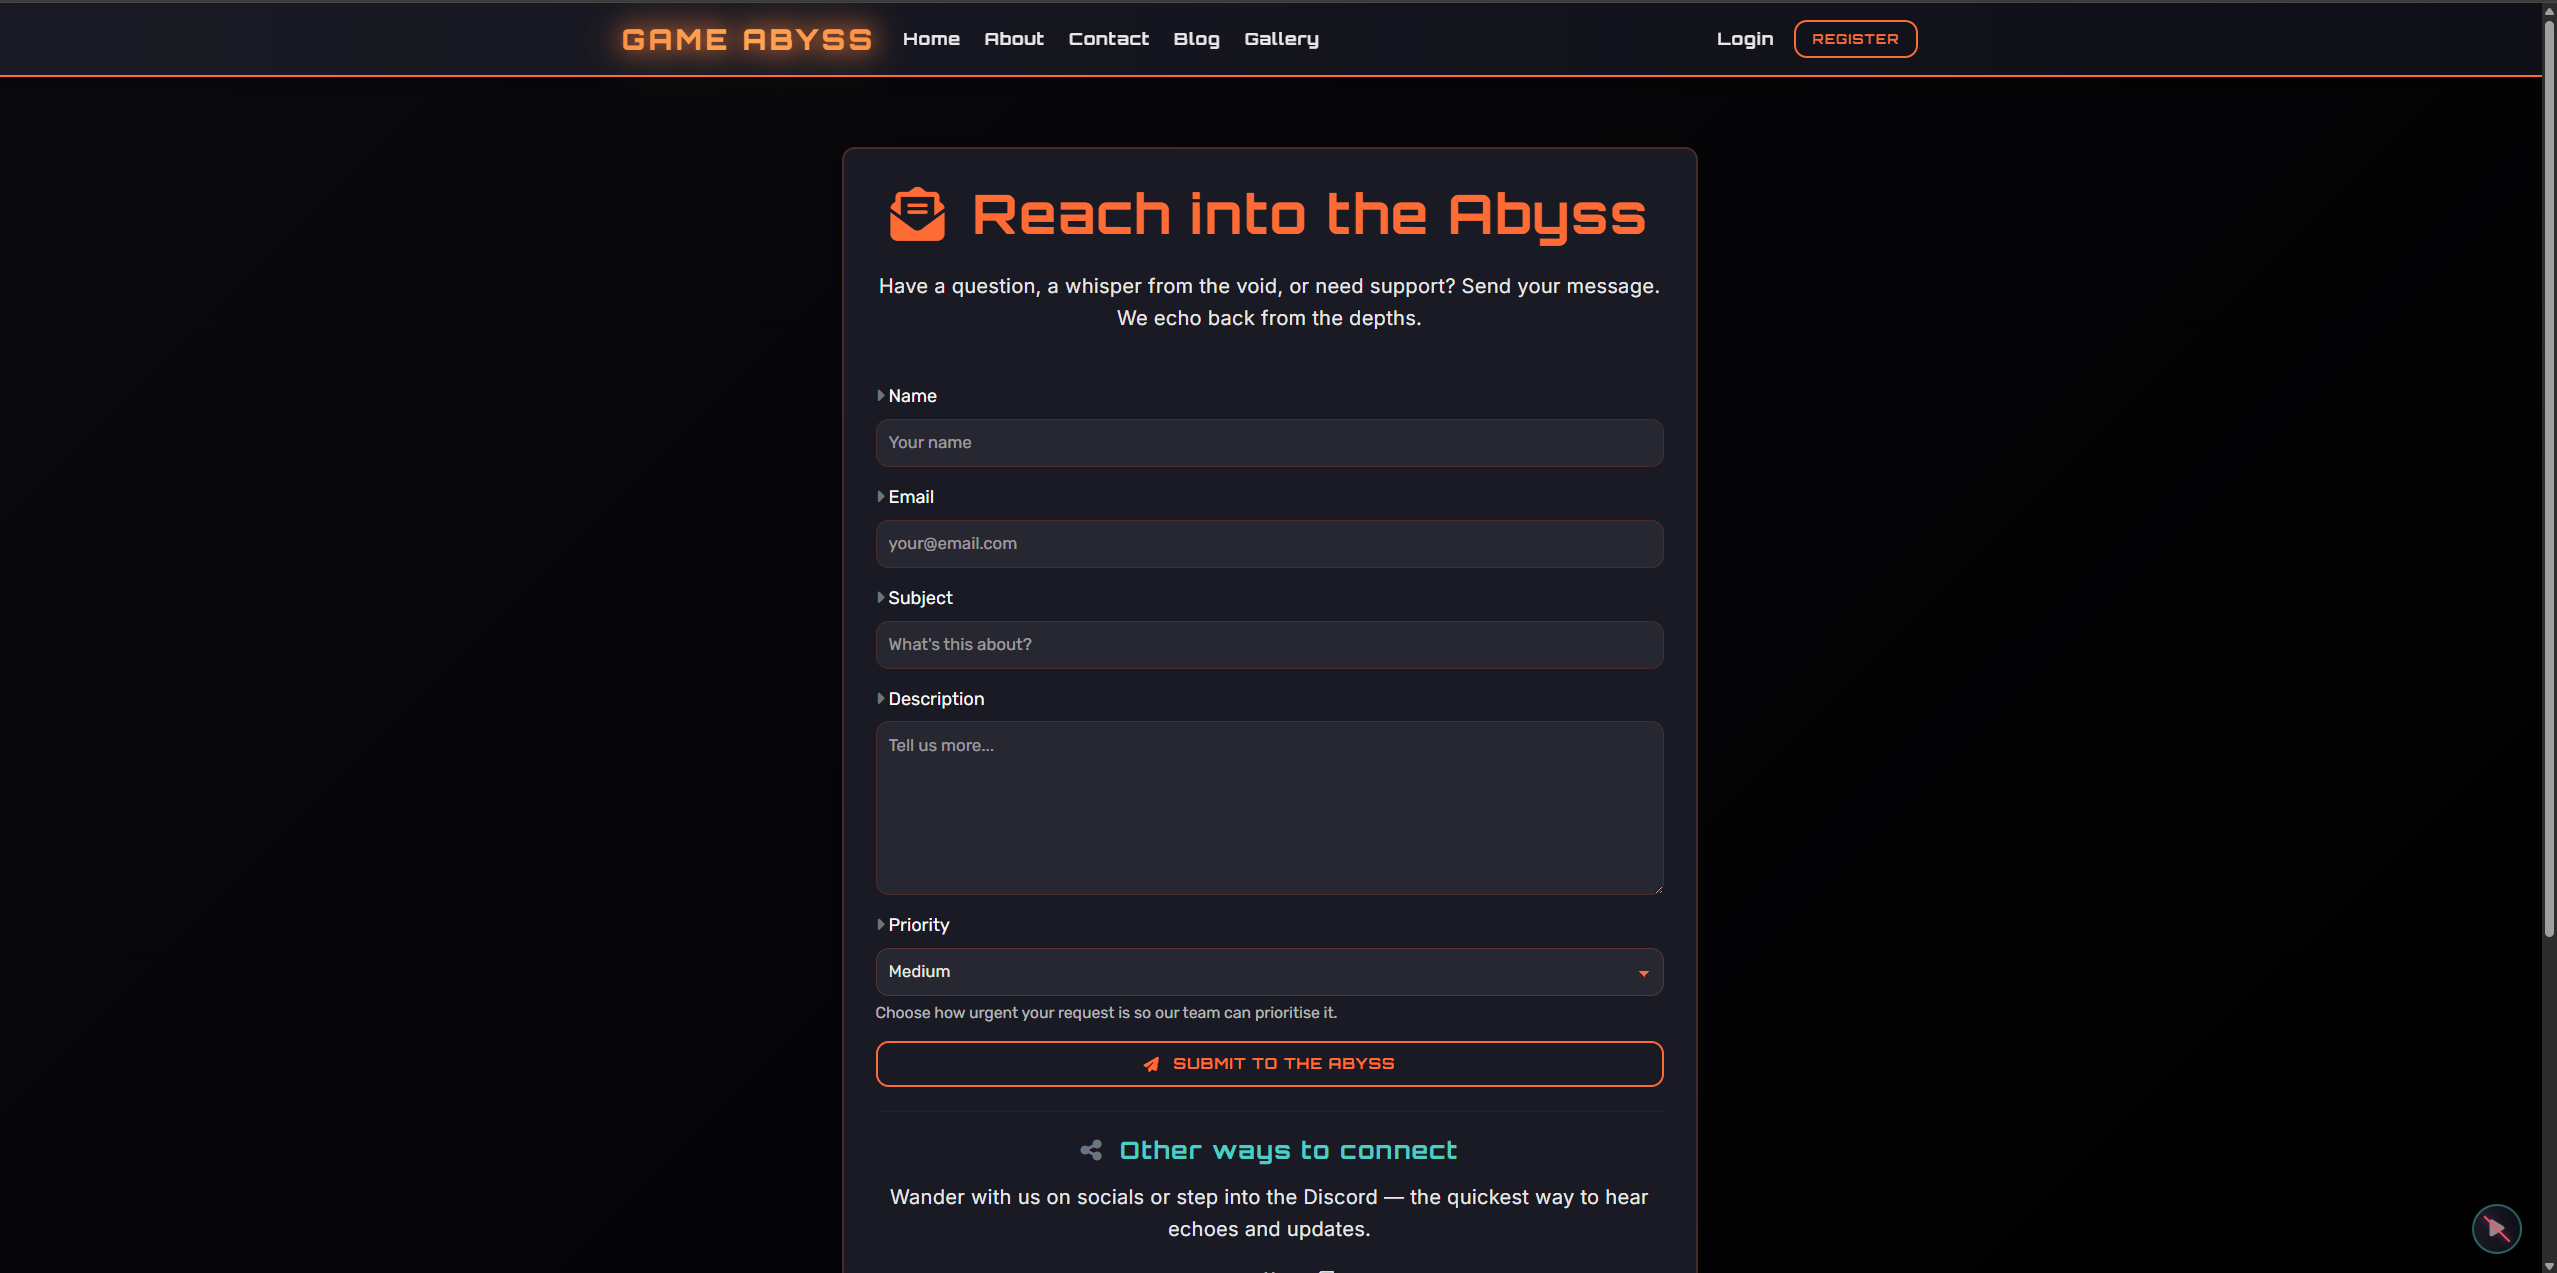
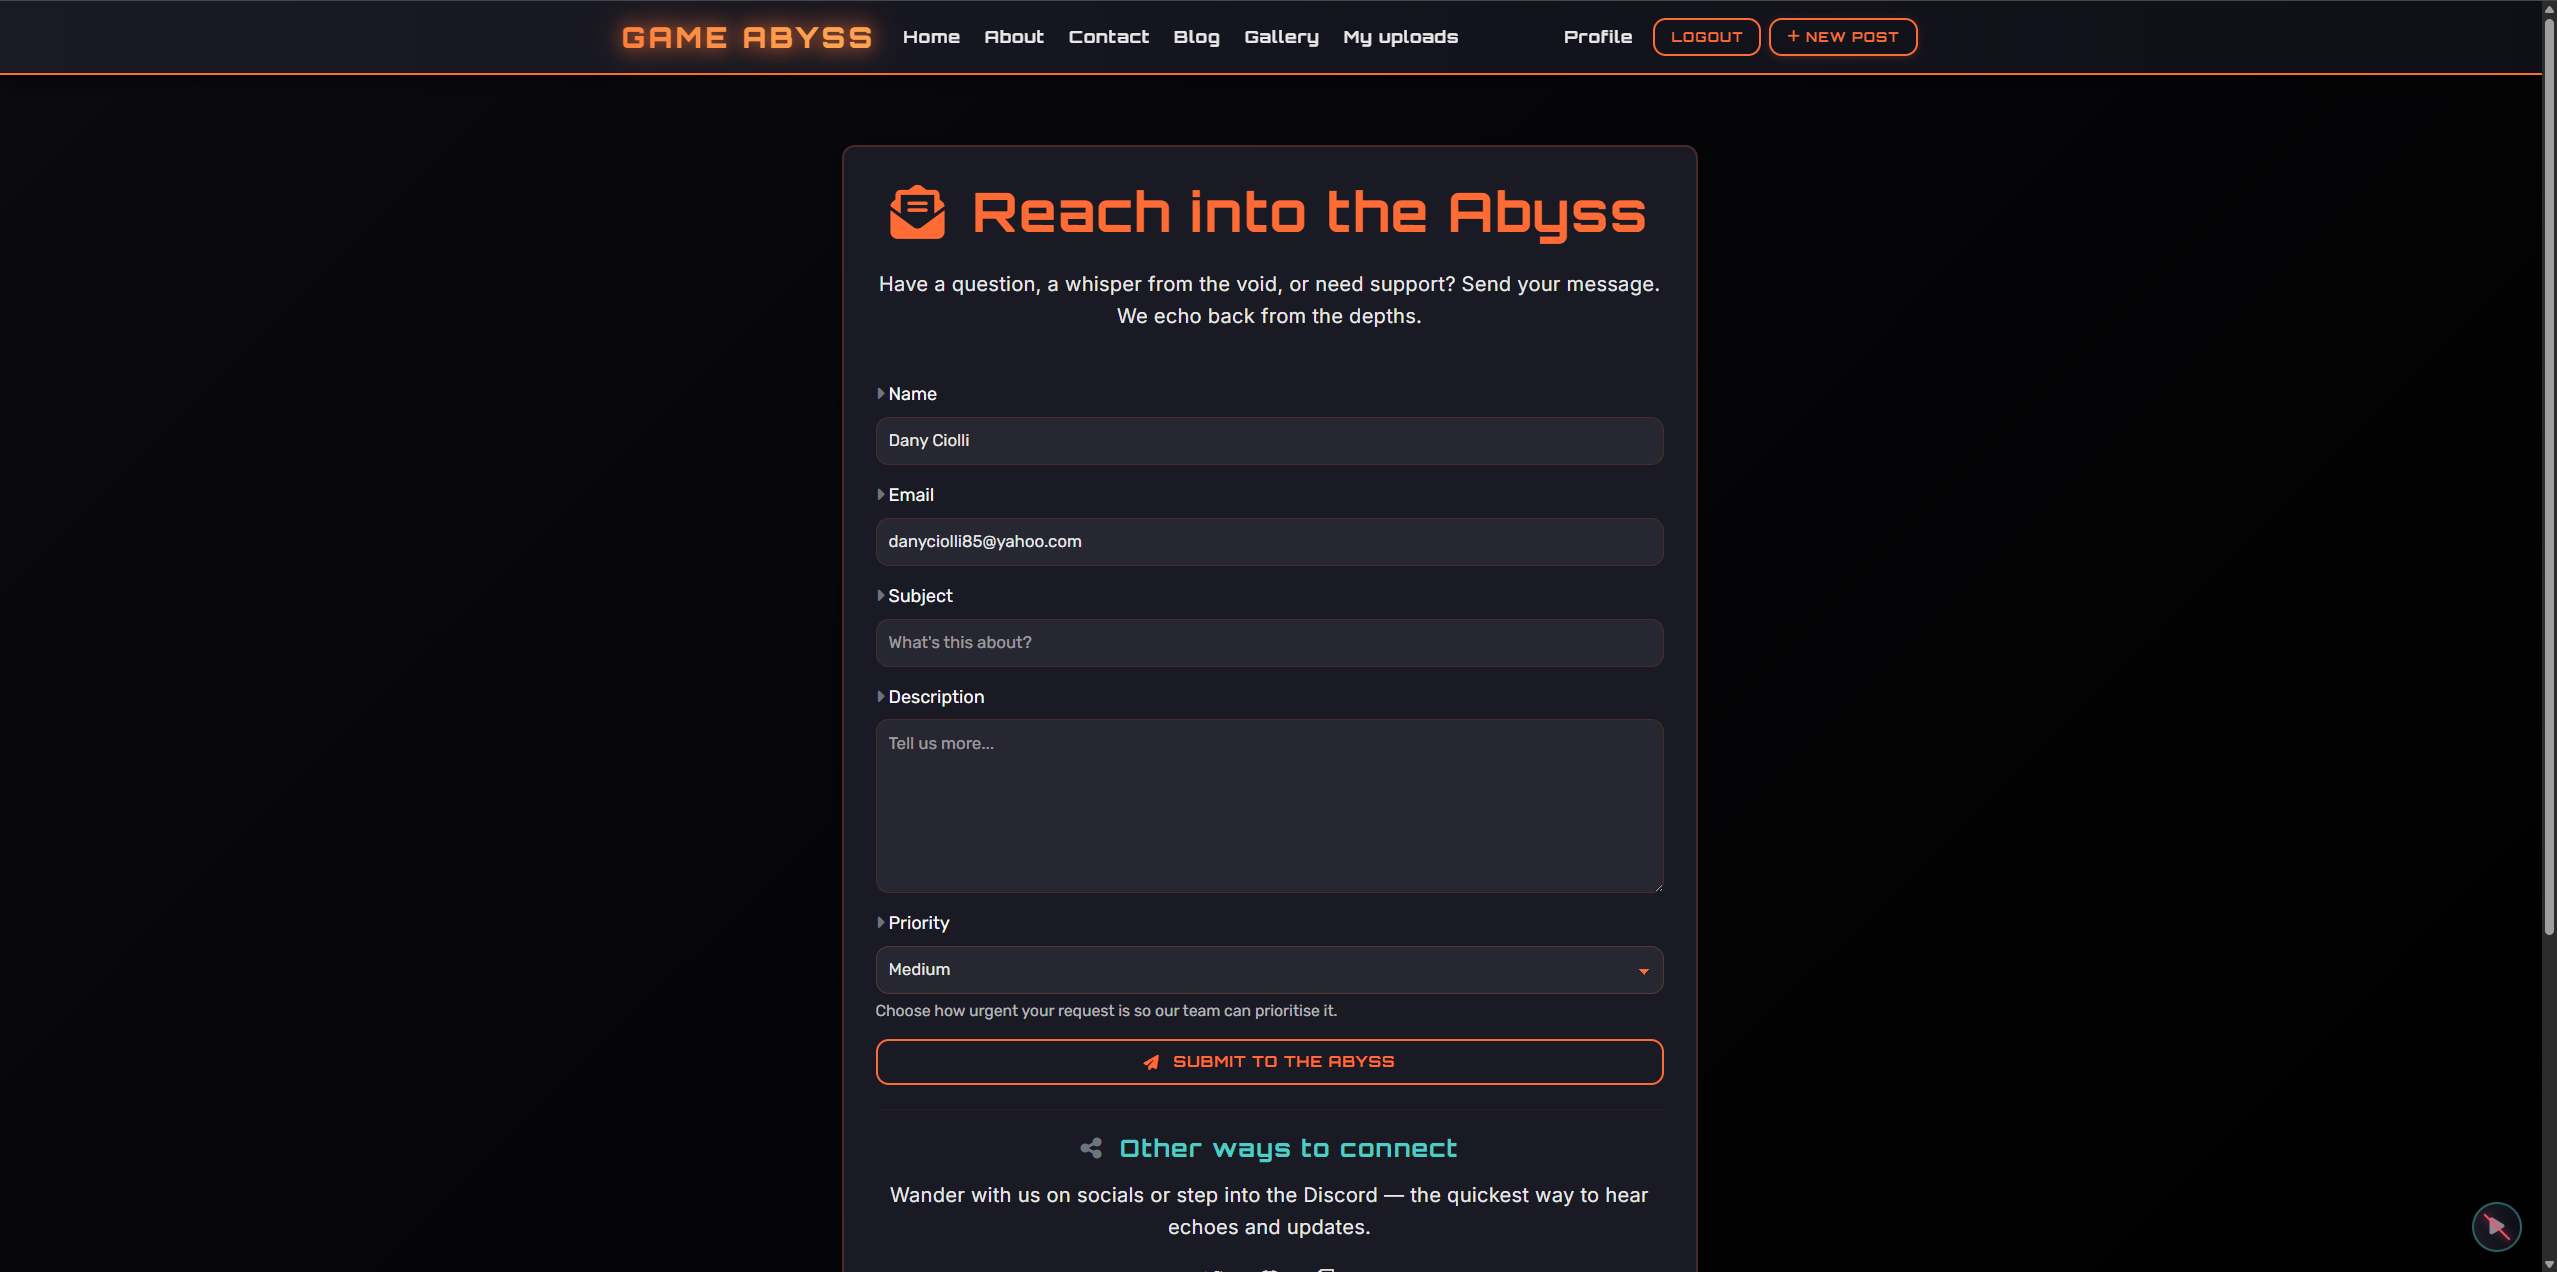
README: update documentation images

diff --git a/README.md b/README.md
@@ -477,6 +477,12 @@ Community gallery showcasing gaming screenshots and artwork uploaded by users.
 
 ![Gallery Page](documentation/website-pages/gallery.png)
 
+**My Uploads**
+
+Personal dashboard for users to manage their gallery submissions and track approval status.
+
+![My Uploads Page](documentation/website-pages/my-uploads.png)
+
 **Contact Page**
 
 Contact form for users to reach out to the Game Abyss team with questions or feedback.
